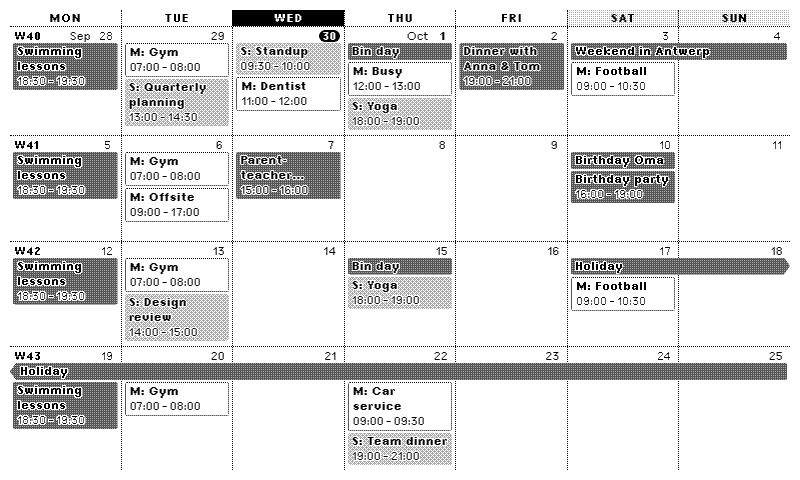
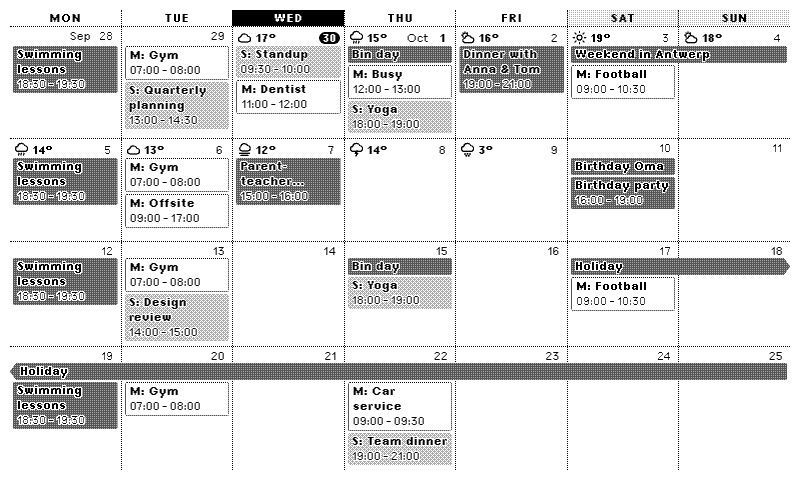
Show the weather forecast instead of week numbers in the README previews
Claude-Session: https://claude.ai/code/session_01RbcYaCJ2irSU8isqUgztxq

diff --git a/README.md b/README.md
@@ -244,7 +244,7 @@ settings:
 
 shared family events get no prefix and a `gray-35` fill, Mark's events get `M:` and a
 `white` fill, and Sara's get `S:` and a `gray-60` fill. That is what the screenshots above
-show, with week numbers on.
+show, with a weather entity set (see [Weather](#weather); LaraPaper only).
 
 - **Prefix**: shown before the title, followed by a space (`S: Standup`).
 - **Color**: fills every event of that calendar, timed ones included, instead of a dot.
